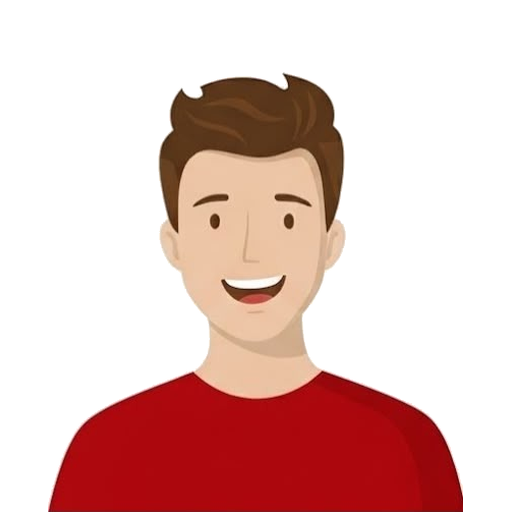
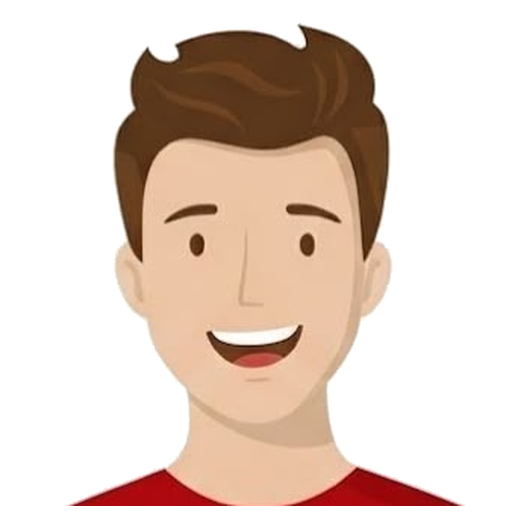
Aumentar tamanho e enquadramento dos avatares de antes e depois

diff --git a/style.css b/style.css
@@ -1096,14 +1096,15 @@ body {
 }
 
 .compare-avatar-img {
-  width: 76px;
-  height: 76px;
+  width: 105px;
+  height: 105px;
   border-radius: 50%;
-  margin-bottom: 8px;
+  margin-bottom: 10px;
   object-fit: cover;
   object-position: center;
   background: #ffffff;
-  border: 1px solid #e2e8f0;
+  border: 1.5px solid #e2e8f0;
+  box-shadow: 0 2px 8px rgba(0, 0, 0, 0.04);
 }
 
 .compare-desc {
